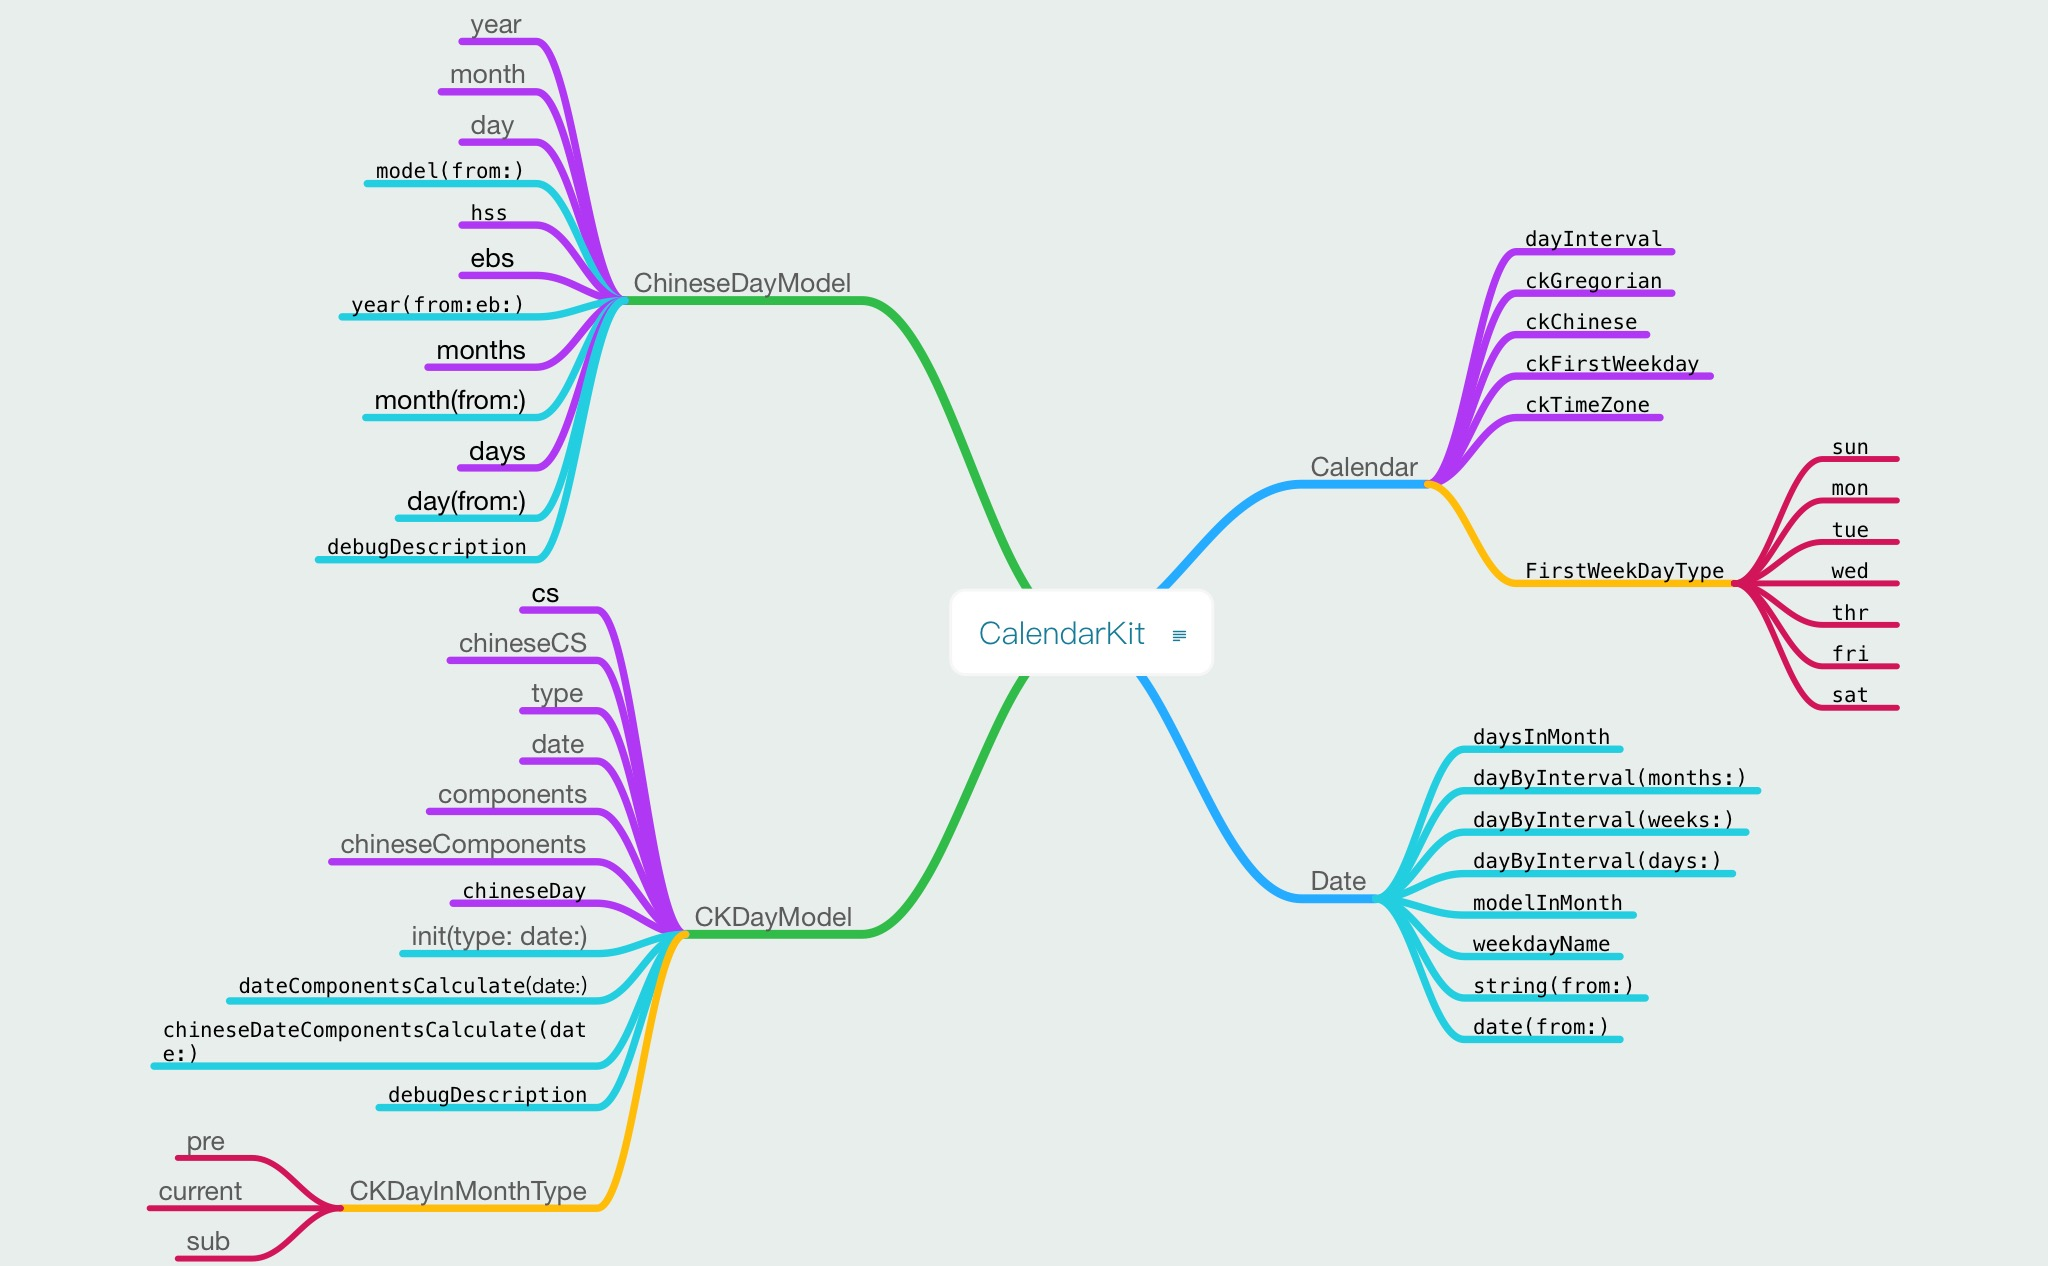
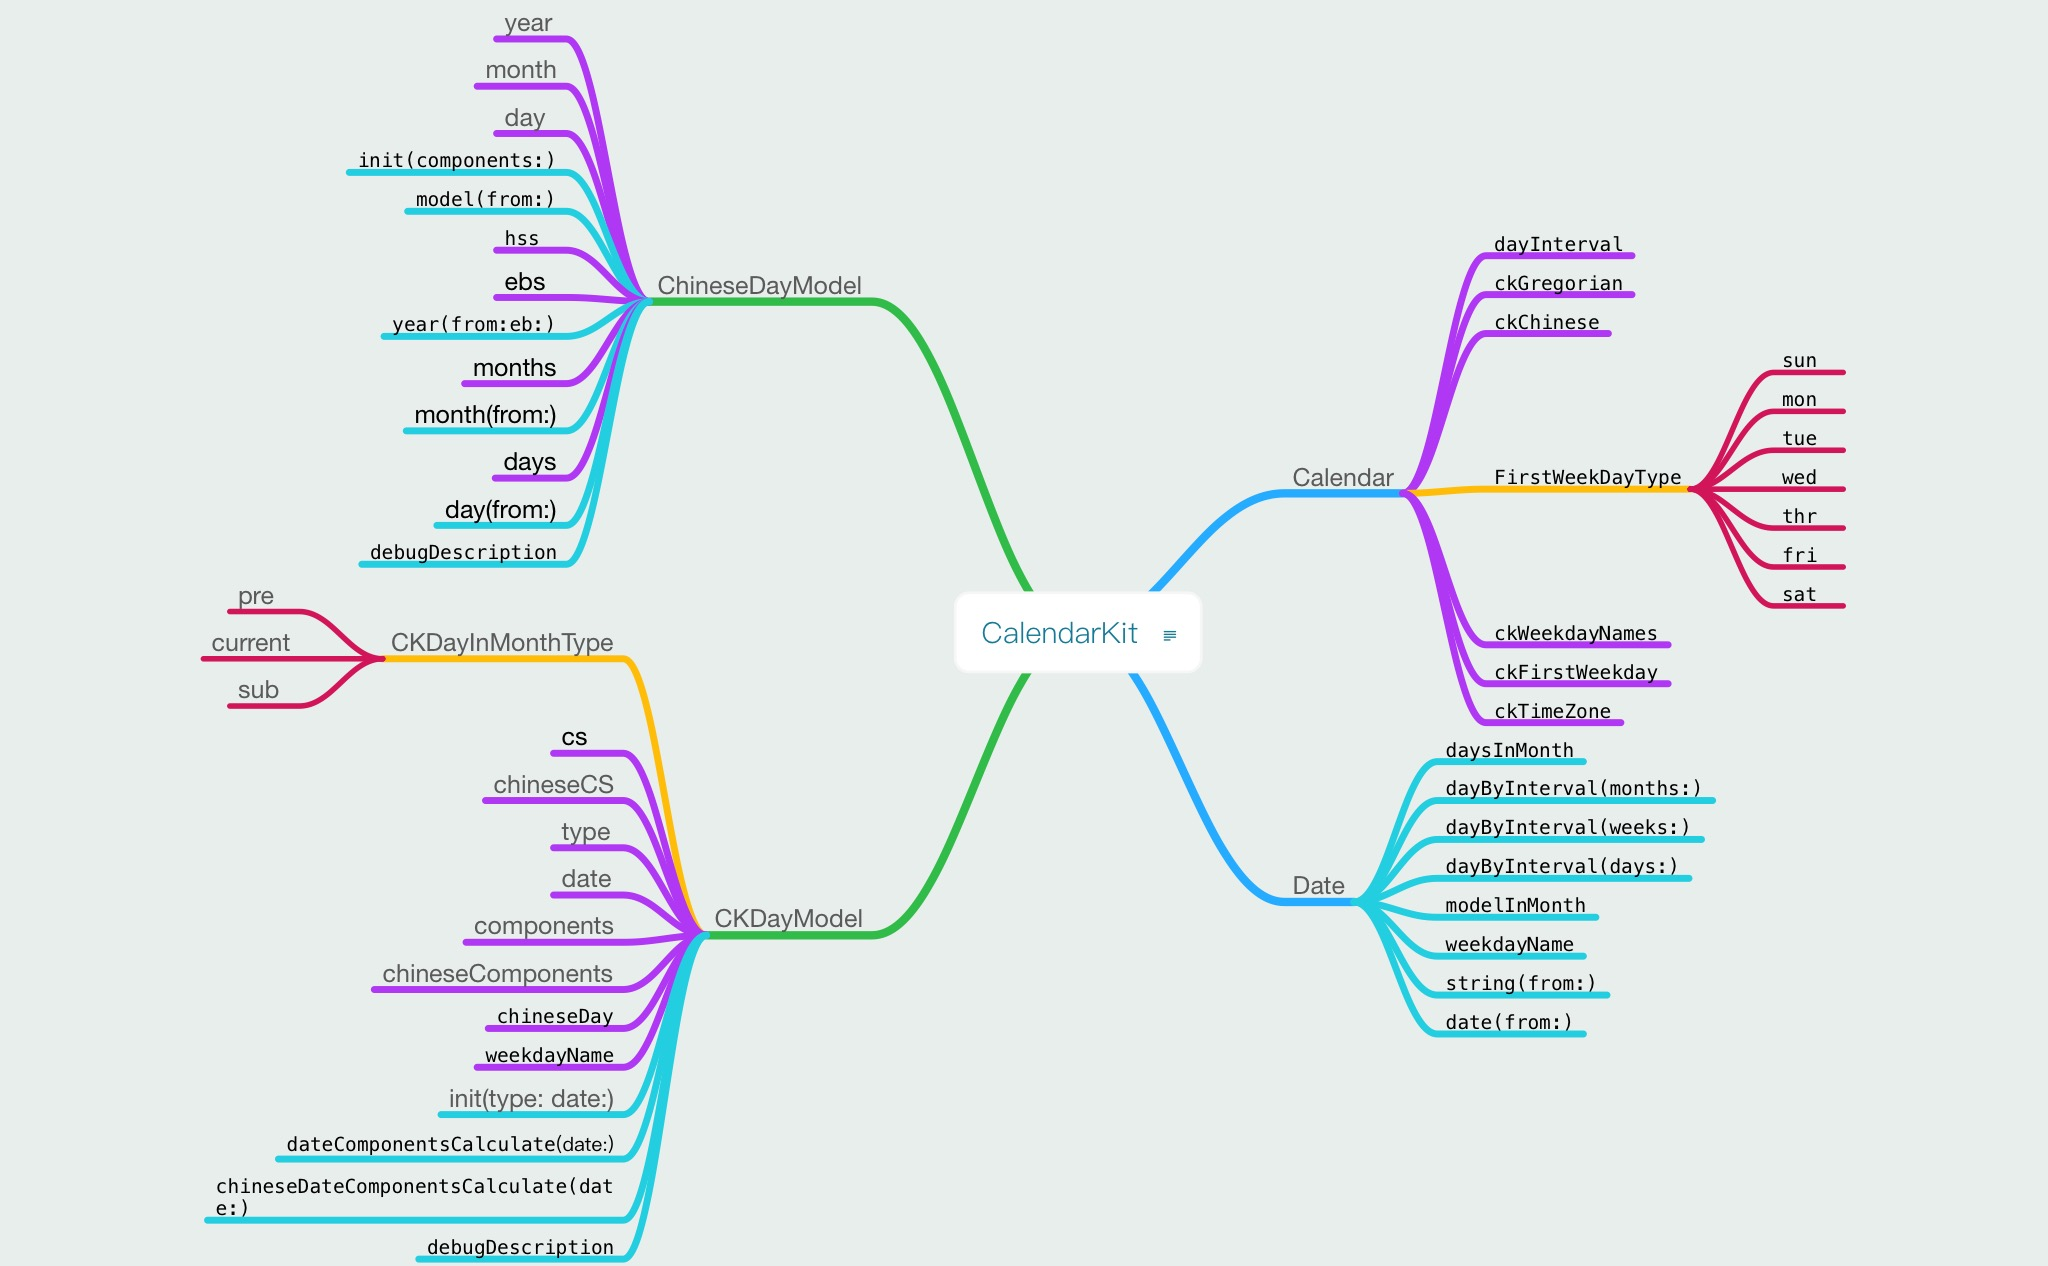
Chinese Calendar update second time

diff --git a/CalendarKit/CalendarKit.swift b/CalendarKit/CalendarKit.swift
@@ -149,7 +149,7 @@ struct CKDayModel: CustomDebugStringConvertible {
             let cDay = self.chineseComponents?.day else {
                 return "type = \(self.type)"
         }
-        return "type = \(self.type), components = \(year)-\(month)-\(day), chinese = \(cYear)-\(cMonth)-\(cDay), day= \(self.chineseDay!.year)\(self.chineseDay!.month)\(self.chineseDay!.day) weedayName = \(self.weekdayName)\n"
+        return "type = \(self.type), components = \(year)-\(month)-\(day), chinese = \(cYear)-\(cMonth)-\(cDay), day = \(self.chineseDay!.year)\(self.chineseDay!.month)\(self.chineseDay!.day) weedayName = \(self.weekdayName)\n"
     }
 }
 
@@ -189,16 +189,7 @@ extension Calendar {
                                   Bundle.ckLocalizeString(key: "Day5") ?? "Thu",
                                   Bundle.ckLocalizeString(key: "Day6") ?? "Fri",
                                   Bundle.ckLocalizeString(key: "Day7") ?? "Sat"]
-    private static var ckWeekdayNamesKey: UInt8 = 0
-    fileprivate static var ckWeekdayNames: [String]? {
-        get {
-            return objc_getAssociatedObject(self, &Calendar.ckWeekdayNamesKey) as? [String]
-        }
-        set {
-            objc_setAssociatedObject(self, &Calendar.ckWeekdayNamesKey, newValue, objc_AssociationPolicy.OBJC_ASSOCIATION_COPY)
-        }
-    }
-    
+    static var ckWeekdayNames: [String] = []
     
     /// cCalendarKit 第一个工作日
     static var ckFirstWeekday: FirstWeekDayType {
@@ -219,8 +210,7 @@ extension Calendar {
                 }
             }
             
-            Calendar.ckWeekdayNames = names
-
+            self.ckWeekdayNames = names
         }
     }
     
@@ -288,8 +278,10 @@ extension Date {
         }
         
         var result: [CKDayModel] = []
-        // 计算当前月第一周包含上月的数据，如果第一天是周一就不再计算
-        if startInWeek > 2 {
+        // 计算当前月第一周包含上月的数据，如果第一天是FirstWeekday就不再计算
+        
+        print(startInWeek)
+        if startInWeek >= 2 {
             for i in 1 ... startInWeek - 1 {
                 let model: CKDayModel = CKDayModel(type: .pre, date: di.start.dayByInterval(days: Double(-1 * i)))
                 result.insert(model, at: 0)
@@ -302,7 +294,7 @@ extension Date {
             result.append(model)
         }
         
-        // 计算当前月最后一周包含下月的数据，如果是下个月第一天是周一就不算在最后一周。
+        // 计算当前月最后一周包含下月的数据，如果是下个月第一天是FirstWeekday就不算在最后一周。
         if endInWeek > 1 {
             for i in 0 ..< 7 + 1 - endInWeek {
                 let model: CKDayModel = CKDayModel(type: .sub, date: di.end.dayByInterval(days: Double(i)))
@@ -315,14 +307,14 @@ extension Date {
     /// 周名称
     func weekdayName() -> String {
         guard let index = Calendar.ckGregorian.ordinality(of: .day, in: .weekOfMonth, for: self) else {
-            return "错误周名称"
+            return "error name"
         }
         
-        guard let names = Calendar.ckWeekdayNames else {
+        guard Calendar.ckWeekdayNames.count == 7  else {
             return "\(index)"
         }
 
-        return names[index]
+        return Calendar.ckWeekdayNames[index-1]
     }
 
     fileprivate static let _ckFromatter = DateFormatter()

diff --git a/demo/ViewController.swift b/demo/ViewController.swift
@@ -19,11 +19,33 @@ class ViewController: UIViewController {
         
         
         Calendar.ckFirstWeekday = .sun
+        print(Date().dayByInterval(months: 0).modelInMonth())
+        print("------")
         
-//        for i in 0 ..< 60 {
-//            print(Date().dayByInterval(months: i).modelInMonth())
-//            print("______")
-//        }
+        Calendar.ckFirstWeekday = .mon
+        print(Date().dayByInterval(months: 0).modelInMonth())
+        print("------")
+
+        Calendar.ckFirstWeekday = .tue
+        print(Date().dayByInterval(months: 0).modelInMonth())
+        print("------")
+
+        Calendar.ckFirstWeekday = .wed
+        print(Date().dayByInterval(months: 0).modelInMonth())
+        print("------")
+
+        Calendar.ckFirstWeekday = .thr
+        print(Date().dayByInterval(months: 0).modelInMonth())
+        print("------")
+
+        Calendar.ckFirstWeekday = .fri
+        print(Date().dayByInterval(months: 0).modelInMonth())
+        print("------")
+
+        Calendar.ckFirstWeekday = .sat
+        print(Date().dayByInterval(months: 0).modelInMonth())
+        print("------")
+
         
         
         
